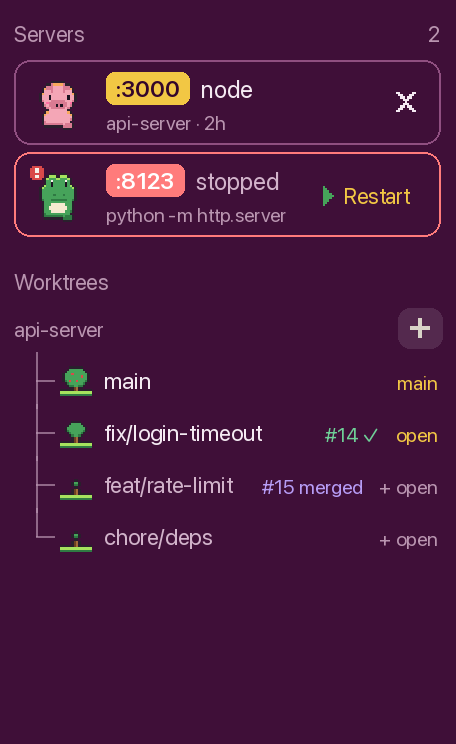
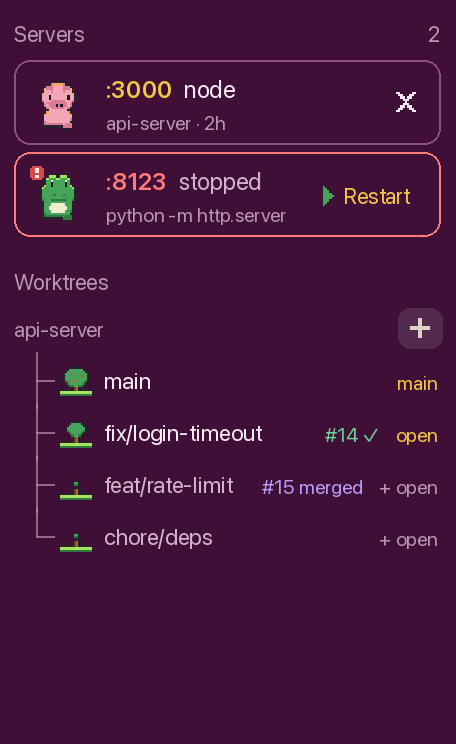
fix(meadows): show the server port as plain gold text, like the agent cards

Changed region(s): [[0.2149, 0.2164, 0.614, 0.2782], [0.2149, 0.0927, 0.5526, 0.1546]]

diff --git a/mods/meadows/main.js b/mods/meadows/main.js
@@ -744,7 +744,7 @@ export default class Spaces extends View {
         .border(1).border_color(t.blocked ?? t.border)
         .child(critterPicture(critters[g.port] ?? CRITTERS[0], "gone"))
         .child(v_flex().flex_1().min_w(0)
-          .child(h_flex().gap(6).items_baseline().child(div().px(5).rounded(4).bg(t.blocked ?? "#d94a4a").font_semibold().text_size(12).text_color("#ffffff").child(`:${g.port}`)).child(div().truncate().text_color(t.muted).child("stopped")))
+          .child(h_flex().gap(6).items_baseline().child(div().font_semibold().text_color(t.blocked ?? t.foreground).child(`:${g.port}`)).child(div().truncate().text_color(t.muted).child("stopped")))
           .child(div().truncate().text_size(11).text_color(t.dim).child(shortCommand(g.cmd))))
         .child(div().id(`restart-${g.pid}`).px(8).h(24).flex().items_center().rounded(6).flex_none().text_size(11).text_color(t.accent ?? t.foreground)
           .cursor_pointer().hover((el) => el.bg(t.raised ?? t.hover))
@@ -758,7 +758,7 @@ export default class Spaces extends View {
           .child(critterPicture(critters[sv.port] ?? CRITTERS[0], "running"))
           .child(v_flex().flex_1().min_w(0)
             .child(h_flex().gap(6).items_baseline()
-              .child(div().px(5).rounded(4).bg(t.solid ?? t.accent ?? "#f2c744").font_semibold().text_size(12).text_color(t.solid_foreground ?? "#33062b").child(`:${sv.port}`))
+              .child(div().font_semibold().text_color(t.accent ?? t.foreground).child(`:${sv.port}`))
               .child(div().truncate().text_color(t.foreground).child(sv.command)))
             .child(div().truncate().text_size(11).text_color(t.dim).child([sv.place.name, sv.up].filter(Boolean).join(" \u00b7 "))))
           .child(div().id(`stop-${sv.pid}`).px(6).h(24).flex().items_center().justify_center().rounded(6).flex_none()

diff --git a/tools/sections_picture.py b/tools/sections_picture.py
@@ -91,10 +91,8 @@ class Pen:
         self.box(x0, y, x1, y + 42, 8, outline=c["red"] if stopped else c["border"])
         self.paste(critter(name, "-blocked" if stopped else "", 28 * self.s), x0 + 8, y + 7)
         plate = f":{port}"
-        pw = self.d.textlength(plate, font=font(11.5 * self.s, "Semibold")) / self.s + 10
         px = x0 + 46
-        self.box(px, y + 6, px + pw, y + 22, 4, fill=c["red"] if stopped else c["gold"])
-        self.text(px + 5, y + 7, plate, 11.5, (255, 255, 255) if stopped else c["on_gold"], "Semibold")
+        pw = self.text(px, y + 7, plate, 12, c["red"] if stopped else c["accent"], "Semibold")
         self.text(px + pw + 6, y + 7, "stopped" if stopped else program, 12, c["muted"] if stopped else c["fg"])
         self.text(px, y + 25, where, 10, c["dim"])
         if stopped:

diff --git a/RECIPE.md b/RECIPE.md
@@ -52,7 +52,7 @@ Themes, set on the layout as `{ "light": "ranch-meadow", "dark": "ranch-dusk" }`
 
 - **Layout:** `layouts/Herdr-Ranch.json` (herdr builds the Settings name from the file name and rejects names with a space), a clone of `main` 0.1.16 by way of herdr-middle-earth. Root keys: `theme`, `ui_font`, `toast`, `titlebar`, `traffic_lights`, `preview` (`layouts/Herdr-Ranch.png`). Blocks: `brand` (`ranch-chrome`), `spaces` (`meadows`, weight 2), `agents` (`flock`, weight 3), `sidebar-footer` (`ranch-chrome` with `footer`, 78px), `tabs` (`ranch-tabs`), `main` pane header (`ranch-pane`), `status` (`flock-status`). Shipped mods used as they are: `workspace-chrome` (its icons), `files`, `changes`, `prompt`, `confirm`, `menu`.
 - **`flock`** (clone of `agents`): `casting.js` (`pickAnimal`, `drawRare`, `variantFor`, `pickName`, `COMMON`, `RARE`, `NAMES`), `agent-stats.js` (`parseModel`, `parseContext`, `parseQuota` "5h n%", `parseCost` first `$n` not after "last"), `ranch.js` (`lifeOf`, `treeStage`, `worked`), `handoff.js` (`pickContext`, `buildHandoff`), `watch.js` (`watchAgent`, `normalizeScreen`, `parseShortstat`, `changeSince`, `formatChange`). A two-frame swap is two stacked `image()`s whose `opacity` loops linearly between -6 and 7; the over-range values clamp, so each frame is fully on or off for half the period (a crisp swap, no fade). The dots use the same trick with a steep slope and different switch points. The same view serves popups by props: `{ rename }`, `{ needsList }`, `{ sortMenu }`, opened with `openOverlay({ mod: "flock", kind: "popup" })`; the text box is gpui-base `InputState` and `Input`. Sprites: `mods/flock/sprites/<id>[-alt][-work|-2|-idle|-idle-2|-blocked|-done].svg`, `confetti[-2].svg`; icons: `mods/flock/icons/alarm[-2]`, `bell[-2]`, `tree-0..7[-droop]`.
-- **Servers and Worktrees sections (`meadows`, local spaces only):** `servers.js` reads `lsof -nP -iTCP -sTCP:LISTEN -Fpcn` and each process's folder (`lsof -a -d cwd`), keeps those inside a space's folder or a worktree (the deepest wins), and adds the uptime from `ps -o pid=,etime=`; refreshed every 5 s. A card shows `:port program`, `space · uptime` and a barnyard critter (pig, cat, frog, hedgehog: the first one no other listed port wears, kept in `meadows.critters`; `-2` frame bobs, `-blocked` red badge when it ended; drawn in `tools/sprites.py` as `CRITTERS`, kept out of the agent cast); a click opens `http://localhost:<port>` (`cx.open_url`); the x shows "Stop?" for 4 s and a second press runs `kill -TERM <pid>`. `worktrees.js` reads `git worktree list --porcelain` per repo every 20 s and lists repos with more than one worktree, a pixel tree for each (`mods/flock/icons/tree-5` main, `tree-3` a space open, `tree-1` none); a click selects that space or runs `space.new` with the folder.
+- **Servers and Worktrees sections (`meadows`, local spaces only):** `servers.js` reads `lsof -nP -iTCP -sTCP:LISTEN -Fpcn` and each process's folder (`lsof -a -d cwd`), keeps those inside a space's folder or a worktree (the deepest wins), and adds the uptime from `ps -o pid=,etime=`; refreshed every 5 s. A card shows `:port program` (the port in the accent colour, no background, like the agent cards), `space · uptime` and a barnyard critter (pig, cat, frog, hedgehog: the first one no other listed port wears, kept in `meadows.critters`; `-2` frame bobs, `-blocked` red badge when it ended; drawn in `tools/sprites.py` as `CRITTERS`, kept out of the agent cast); a click opens `http://localhost:<port>` (`cx.open_url`); the x shows "Stop?" for 4 s and a second press runs `kill -TERM <pid>`. `worktrees.js` reads `git worktree list --porcelain` per repo every 20 s and lists repos with more than one worktree, a pixel tree for each (`mods/flock/icons/tree-5` main, `tree-3` a space open, `tree-1` none); a click selects that space or runs `space.new` with the folder.
 - **Dev-friendly extras:** a server that disappears without being stopped from here (`trackGone`) toasts and keeps a card with **Restart** for 60 s (`tab.new` in its space, or `space.new`, running `/bin/zsh -lc <the command ps showed>` in its folder); each non-main worktree's PR and CI come from `gh pr list --head <branch> --state all --limit 1 --json ...` every 2 minutes (`parsePr`; a failure is not retried for 10 minutes); the + button on a repo heading opens herdr's `worktree` dialog with `{ folder, machine: "", argv: ["claude"] }`; `flock` toasts when a screen shows EADDRINUSE or "port N is already in use" (`portClash` in `watch.js`, looks up the holder with `lsof -iTCP:N`).
 - **`meadows`** (clone of `spaces`; `reviewer.js` decides which spaces run the PR Panel, from `spaces()`, `panes()` and `terminals()`): shared `meadows.emblems` (space id to emblem name), `mods/meadows/emblems/<name>[-dawn|-dusk|-night].svg`; the Reviewer section is drawn by the same view under the scrolling list.
 - **`flock-status`** (clone of `workspace-status`): `vitals.js` (`parseCpu`, `parseMemMac`, `parseMemLinux`, `parseDisk`, `formatGB`).

diff --git a/README.md b/README.md
@@ -79,7 +79,7 @@ Looking at an animal (focusing its pane) resets it to "Resting". Sub-agents show
 - **Port clash.** When an agent's screen says a port is already in use (`EADDRINUSE` and the like), you get a toast naming the program and process that holds it.
 - **Worktrees.** A repo with more than one worktree gets its list in the same style as the nested spaces, with the ranch's pixel trees: a full tree for the main checkout, a young tree where a space is open on a branch, and a sapling ("+ open") where none is. Click one to jump to its space, or to make a space in that folder. A branch with a pull request shows `#42` and its CI (✓ passing, ✕ failing, … running, merged, closed, draft; needs the `gh` command and a GitHub repo); click it to open the PR. The **+** on a repo's heading makes a worktree and starts Claude in it.
 
-<p align="center"><img src="assets/servers-worktrees.png" alt="The Servers and Worktrees sections: a running server with a pink pig and its port on a gold plate, a stopped one with a frog, a red badge and a Restart button, then a repo's worktrees as pixel trees with their pull request and CI status" width="300"><br><sub>Servers (one running, one stopped) and a repo's worktrees. Names and numbers are made up.</sub></p>
+<p align="center"><img src="assets/servers-worktrees.png" alt="The Servers and Worktrees sections: a running server with a pink pig and its port in gold, a stopped one with a frog, a red badge, the port in red and a Restart button, then a repo's worktrees as pixel trees with their pull request and CI status" width="300"><br><sub>Servers (one running, one stopped) and a repo's worktrees. Names and numbers are made up.</sub></p>
 
 - **Ranch board.** Tasks done today, work time and spend, an apple tree that grows with your day (stages at 1, 4, 8, 13, 19 and 26 tasks, blossoms at 30, droops while someone has waited on you for over 5 minutes), and a gauge for the lowest 5-hour quota left.
 - **Agent cards.** The animal, its name (click to rename), its state, the model and cost, the space, the tab title, an **HP** bar (context used, green then yellow then red) and an **SP** bar (5-hour quota left), and after a task what it changed.
